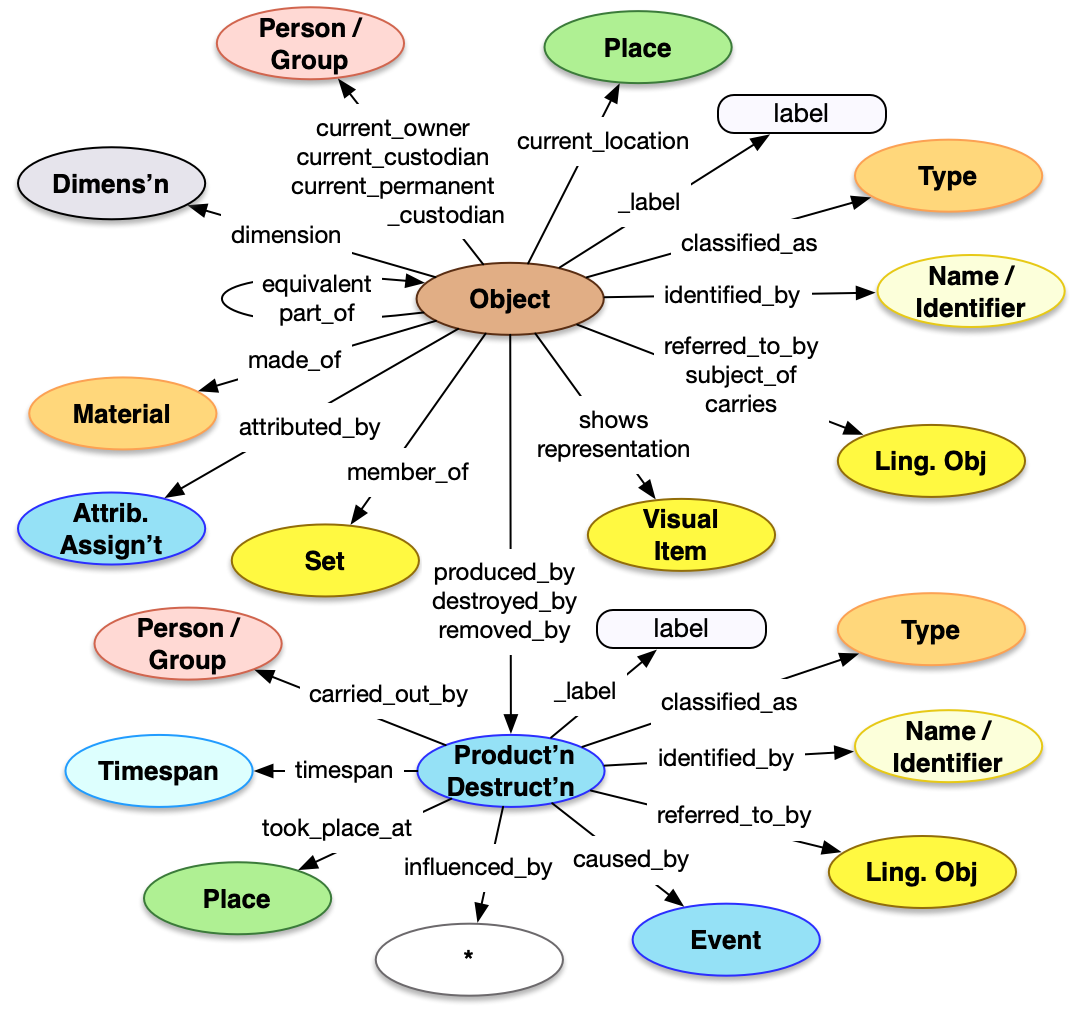
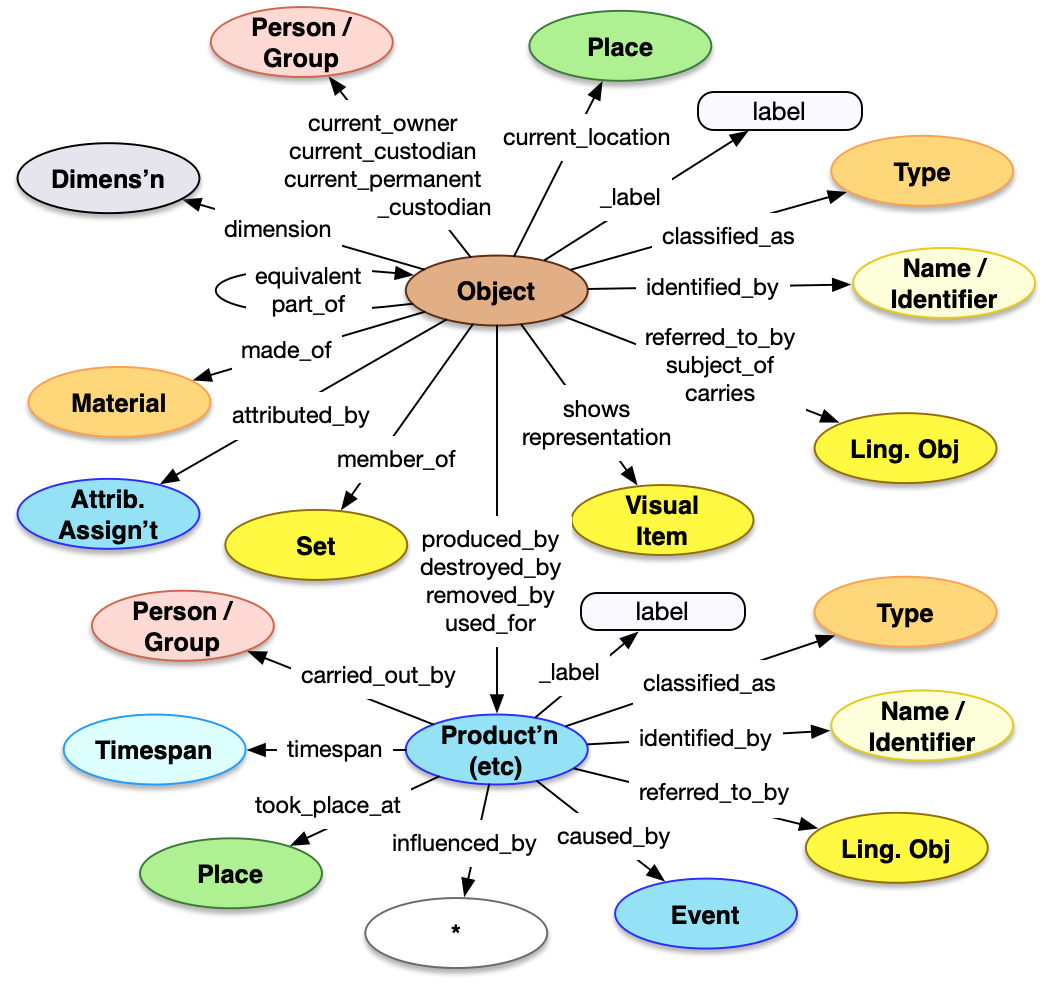
add used_for to object

diff --git a/docs/api/1.0/endpoint/physical_object/index.md b/docs/api/1.0/endpoint/physical_object/index.md
@@ -38,17 +38,18 @@ For more information about the Physical Object data, please see the [Object mode
 | `current_permanent_location` | json object | Optional | A json object which is a [reference](../../shared/reference/) to the [Place](../place/) where the object is normally located, but might not be at the present time |
 | `carries` | array | Optional | An array of json objects, each of which is a [reference](../../shared/reference/) to a [Textual Work](../textual_work/) that this object carries the text of |
 | `shows` | array | Optional | An array of json objects, each of which is a [reference](../../shared/reference/) to a [Visual Work](../visual_work/) that this object shows a rendition of |
+| `used_for`    | array | Optional | An array of json objects, each of which represents an activity that the object was instumental in, but does not have its own identity |
 | `produced_by` | json object | Optional | A json object representing the production of the object, which follows the requirements for Productions described below | 
 | `destroyed_by` | json object | Optional | A json object representing the destruction of the object, which follows the requirements for Destructions described below | 
 | `removed_by` | json object | Optional | A json object representing the removal of the current object from a larger one it was previously part of, which follows the requirements for PartRemovals described below | 
 
 
-### Properties of Productions, Destructions, PartRemovals
+### Properties of Productions, Destructions, PartRemovals and general Activities
 
 | Property Name     | Datatype      | Requirement | Description | 
 |-------------------|---------------|-------------|-------------|
 | `id`              | string        | Optional    | If present, the value MUST be a URI identifying the production, destruction or part removal (henceforth "event")  |  
-| `type`            | string        | Required    | The class for the event, which MUST be the value `"Production"`, `"Destruction"` or `"PartRemoval"` |
+| `type`            | string        | Required    | The class for the event, which MUST be the value `"Production"`, `"Destruction"`, `"PartRemoval"` or `"Activity"`|
 | `_label`          | string        | Recommended | A human readable label for the event, intended for developers |
 | `identified_by`   | array         | Recommended | An array of json objects, each of which is a name for the event and MUST follow the requirements for [Name](../../shared/name/), or an identifier for the event and MUST follow the requirements for [Identifier](../../shared/identifier/) |
 | `classified_as`   | array         | Recommended | An array of json objects, each of which is a further classification of the event and MUST follow the requirements for [Type](../../shared/type/) |
